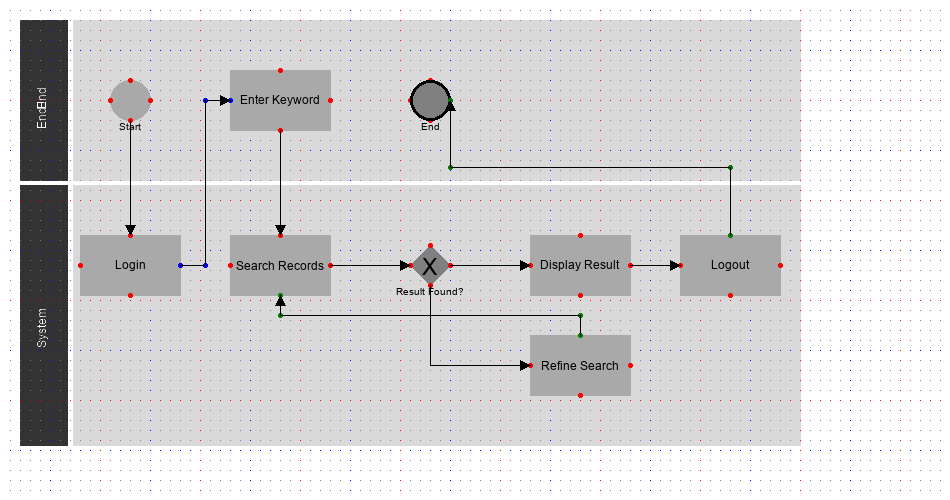
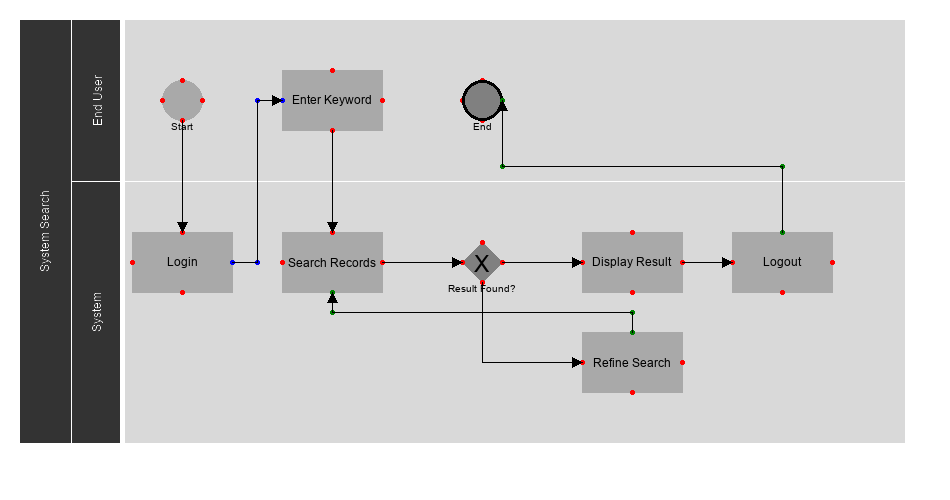
change add pool syntax

Changed region(s): [[0.0305, 0.03, 0.9768, 0.9], [0.4884, 0.66, 0.7326, 0.81]]

diff --git a/src/test_processmapper.py b/src/test_processmapper.py
@@ -48,18 +48,19 @@ def test_case2():
 
 def test_case3():
     with ProcessMap("Test Process", 950, 500) as my_process_map:
-        with my_process_map.add_lane("End User", pool_name="Web Search") as lane1:
-            start = lane1.add_element("Start", EventType.START)
-            enter_keyword = lane1.add_element("Enter Keyword", ActivityType.TASK)
-            end = lane1.add_element("End", EventType.END)
+        with my_process_map.add_pool("System Search") as pool1:
+            with pool1.add_lane("End User") as lane1:
+                start = lane1.add_element("Start", EventType.START)
+                enter_keyword = lane1.add_element("Enter Keyword", ActivityType.TASK)
+                end = lane1.add_element("End", EventType.END)
 
-        with my_process_map.add_lane("System", pool_name="Web Search") as lane2:
-            login = lane2.add_element("Login", ActivityType.TASK)
-            search_records = lane2.add_element("Search Records", ActivityType.TASK)
-            result_found = lane2.add_element("Result Found?", GatewayType.EXCLUSIVE)
-            display_result = lane2.add_element("Display Result", ActivityType.TASK)
-            refine_search = lane2.add_element("Refine Search", ActivityType.TASK)
-            logout = lane2.add_element("Logout", ActivityType.TASK)
+            with pool1.add_lane("System") as lane2:
+                login = lane2.add_element("Login", ActivityType.TASK)
+                search_records = lane2.add_element("Search Records", ActivityType.TASK)
+                result_found = lane2.add_element("Result Found?", GatewayType.EXCLUSIVE)
+                display_result = lane2.add_element("Display Result", ActivityType.TASK)
+                refine_search = lane2.add_element("Refine Search", ActivityType.TASK)
+                logout = lane2.add_element("Logout", ActivityType.TASK)
 
         start.connect(login).connect(enter_keyword).connect(search_records).connect(
             result_found
